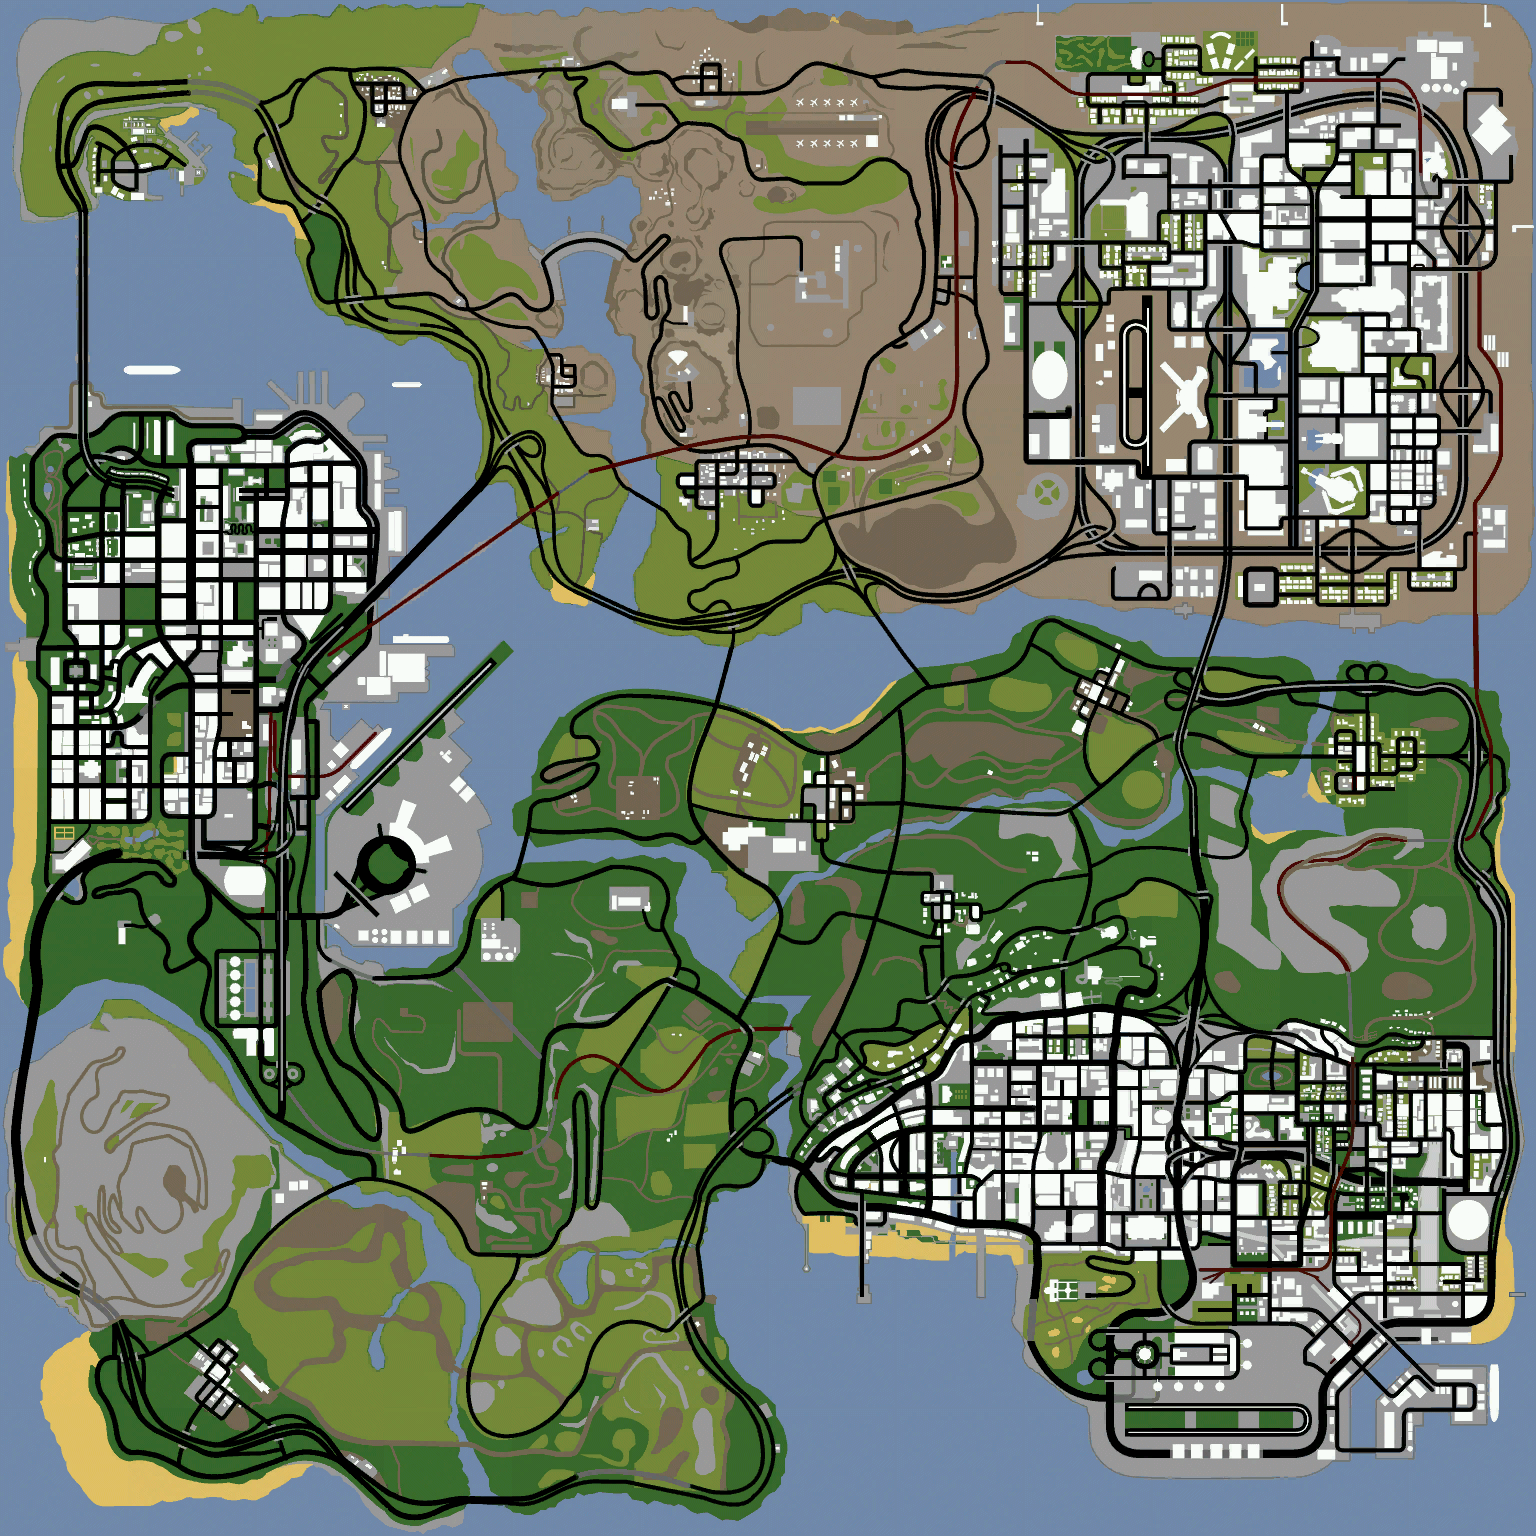
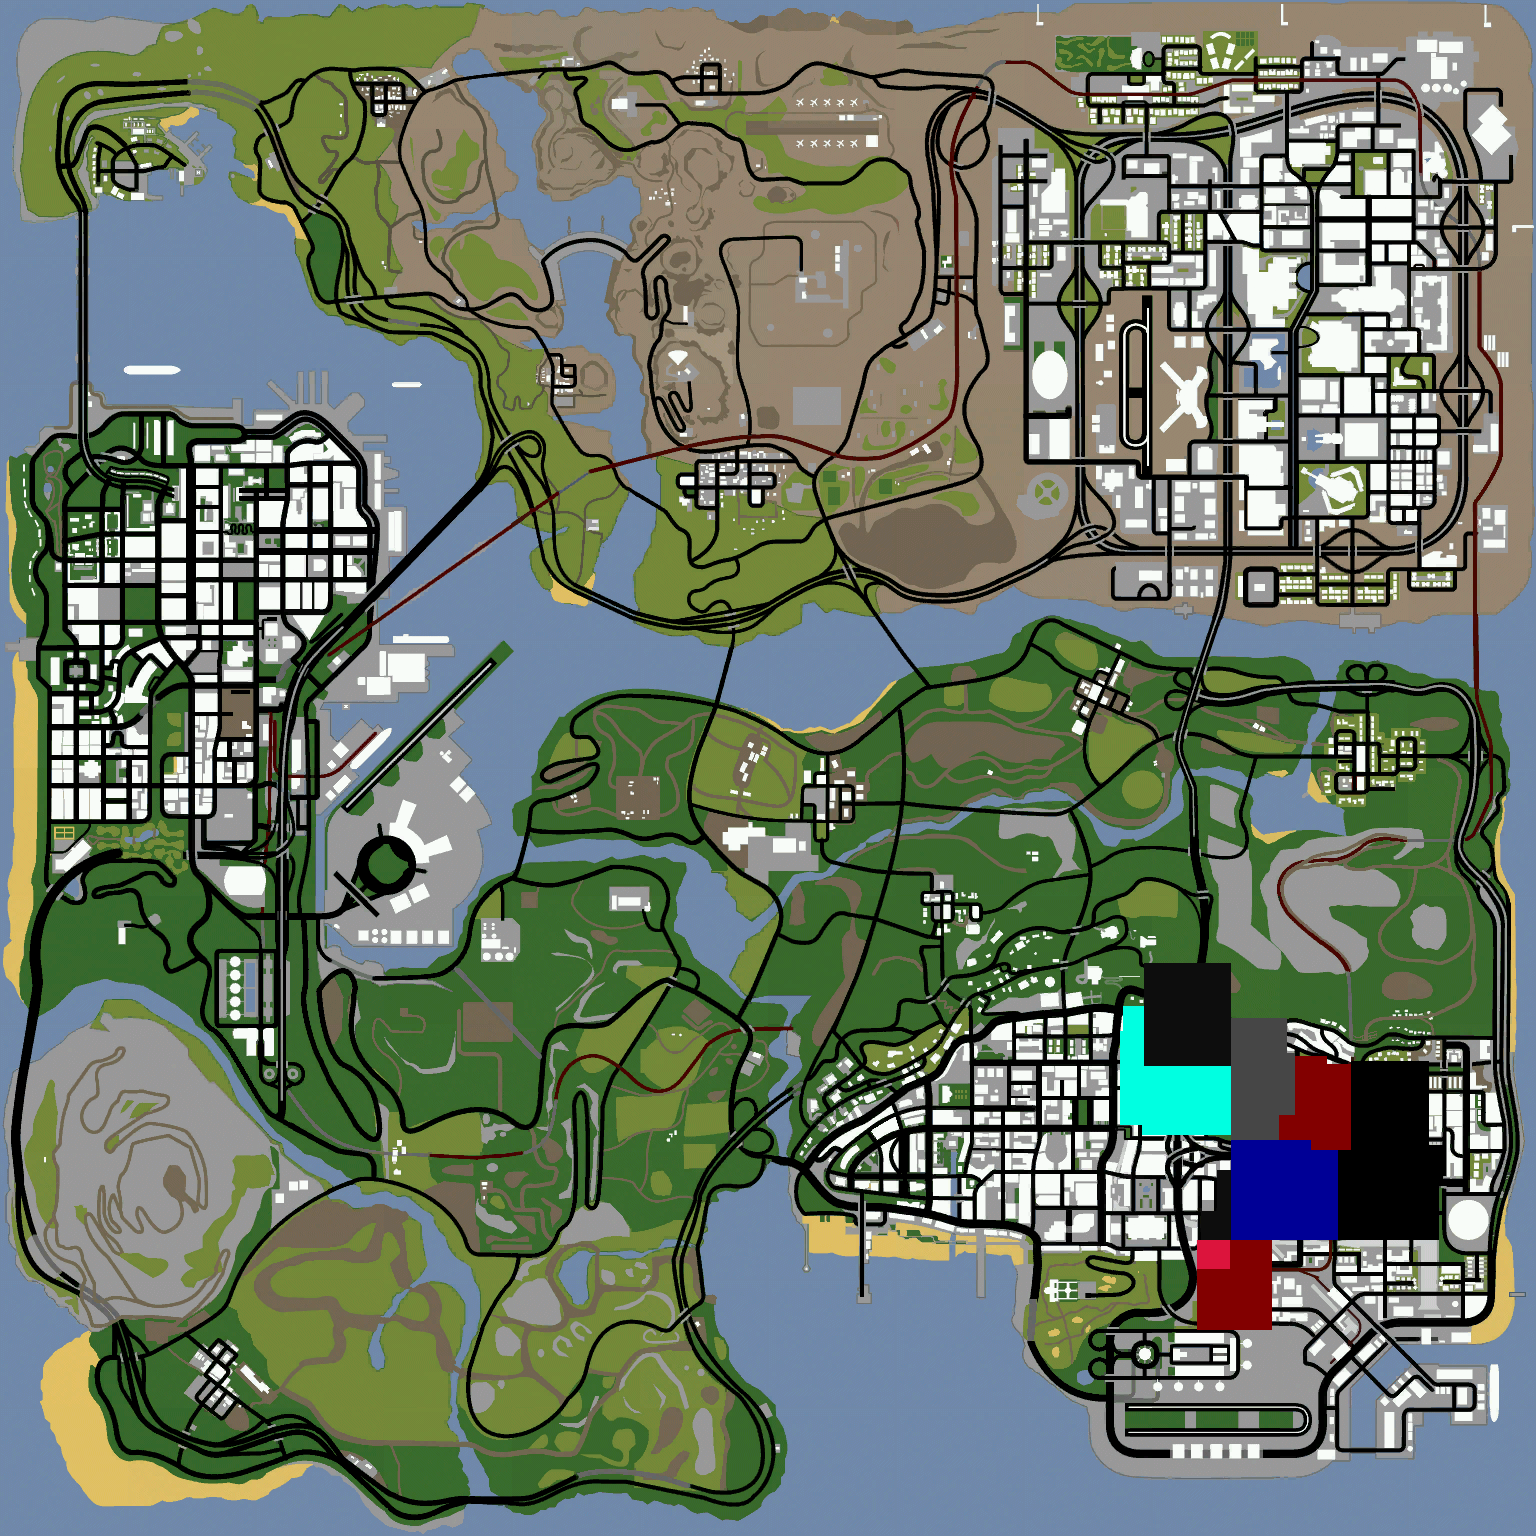
Proto-development.

Changed region(s): [[0.7188, 0.625, 0.9375, 0.875]]

diff --git a/poly_map/drawer.py b/poly_map/drawer.py
@@ -1,13 +1,40 @@
 #!/usr/bin/env python
+import random
 import numpy as np
 import cv2
 image = cv2.imread("../gtasa-blank-vector.png")
 
+grove = (50, 200, 50)
+ballas = (140, 0, 140)
+vagos = (0, 215, 255)
+aztecas = (225, 255, 0)
+mcb = (70, 70, 70)
+rgt = (60, 20, 220)
+dnb = (11, 134, 184)
+rifas = (170, 178, 32)
+leone = (0, 0, 130)
+forelli = (150, 0, 0)
+sindacco = (13, 13, 13)
+black = (0, 0, 0)
+colors = [grove, ballas, vagos, aztecas, mcb, rgt, dnb, rifas, leone, forelli, sindacco, black]
+
+ganton = np.array([[1438, 1186], [1438, 1239], [1337, 1239], [1337, 1186], [1438, 1186]])
+idlewood = np.array([[1337, 1239], [1337, 1150], [1310, 1150], [1310, 1140], [1231, 1140], [1231, 1239], [1337, 1239]])
+little_mexico = np.array([[1230, 1240], [1201, 1240], [1201, 1211], [1217, 1211], [1217, 1170], [1230, 1170], [1230, 1240]])
+unity_station = np.array([[1230, 1240], [1230, 1268], [1197, 1268], [1197, 1240], [1230, 1240]])
+el_corona = np.array([[1197, 1269], [1197, 1329], [1271, 1329], [1271, 1240], [1230, 1240], [1230, 1269], [1197, 1269]])
+glen_park = np.array([[1231, 1139], [1231, 1018], [1286, 1018], [1286, 1053], [1294, 1053], [1294, 1114], [1278, 1114], [1278, 1139], [1231, 1139]])
+jefferson = np.array([[1279, 1139], [1279, 1115], [1295, 1115], [1295, 1056], [1326, 1056], [1326, 1064], [1350, 1064], [1350, 1149], [1311, 1149], [1311, 1139], [1279, 1139]])
+east_los_santos = np.array([[1338, 1185], [1338, 1150], [1351, 1150], [1351, 1061], [1428, 1061], [1428, 1145], [1442, 1145], [1442, 1185]])
+mulholland_intersection = np.array([[1144, 1065], [1144, 963], [1230, 963], [1230, 1065], [1144, 1065]])
+downtown_los_santos = np.array([[1230, 1066], [1143, 1066], [1143, 1006], [1123, 1006], [1123, 1031], [1120, 1031], [1120, 1124], [1142, 1124], [1142, 1134], [1230, 1134], [1230, 1066]])
+commerce = np.array([[1200, 1239], [1106, 1239], [1106, 1169], [1120, 1169], [1120, 1125], [1141, 1125], [1141, 1135], [1230, 1135], [1230, 1169], [1216, 1169], [1216, 1210], [1200, 1210], [1200, 1239]])
+zones = [ganton, idlewood, little_mexico, unity_station, el_corona, glen_park, jefferson, east_los_santos, mulholland_intersection, downtown_los_santos]
+
+for i in zones:
+	cv2.fillPoly(image, [i], random.choice(colors))
+	# cv2.polylines(image, [i], True, black, thickness=2)
 cv2.namedWindow('test map', cv2.WINDOW_NORMAL)
 cv2.imshow("test map", image)
 cv2.waitKey(0)
 cv2.imwrite('test_map.png', image)
-
-# ganton = np.array([[1438,1186],[1438,1239],[1337,1239],[1337,1186],[1438,1186]])
-# cv2.fillPoly(image, [ganton], grove)
-# cv2.polylines(image, [ganton], True, black, thickness=2)
